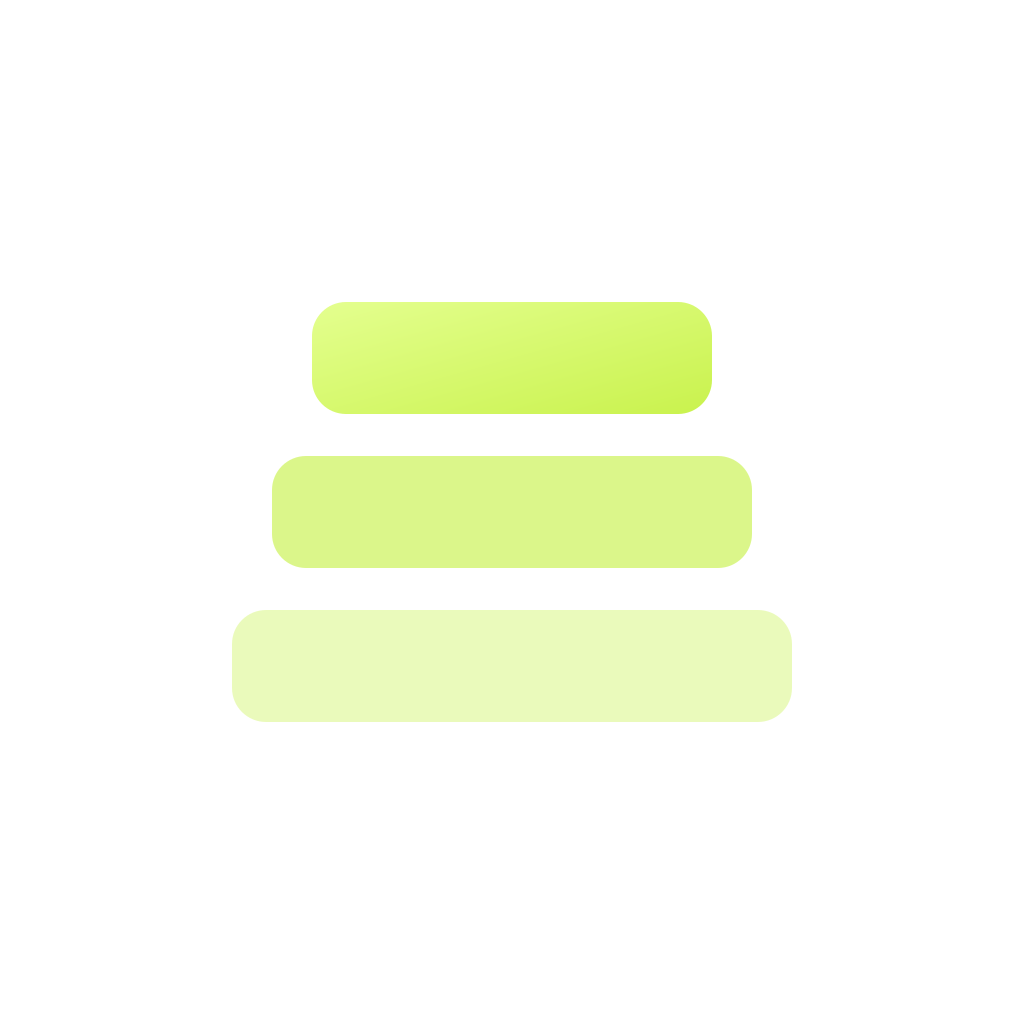
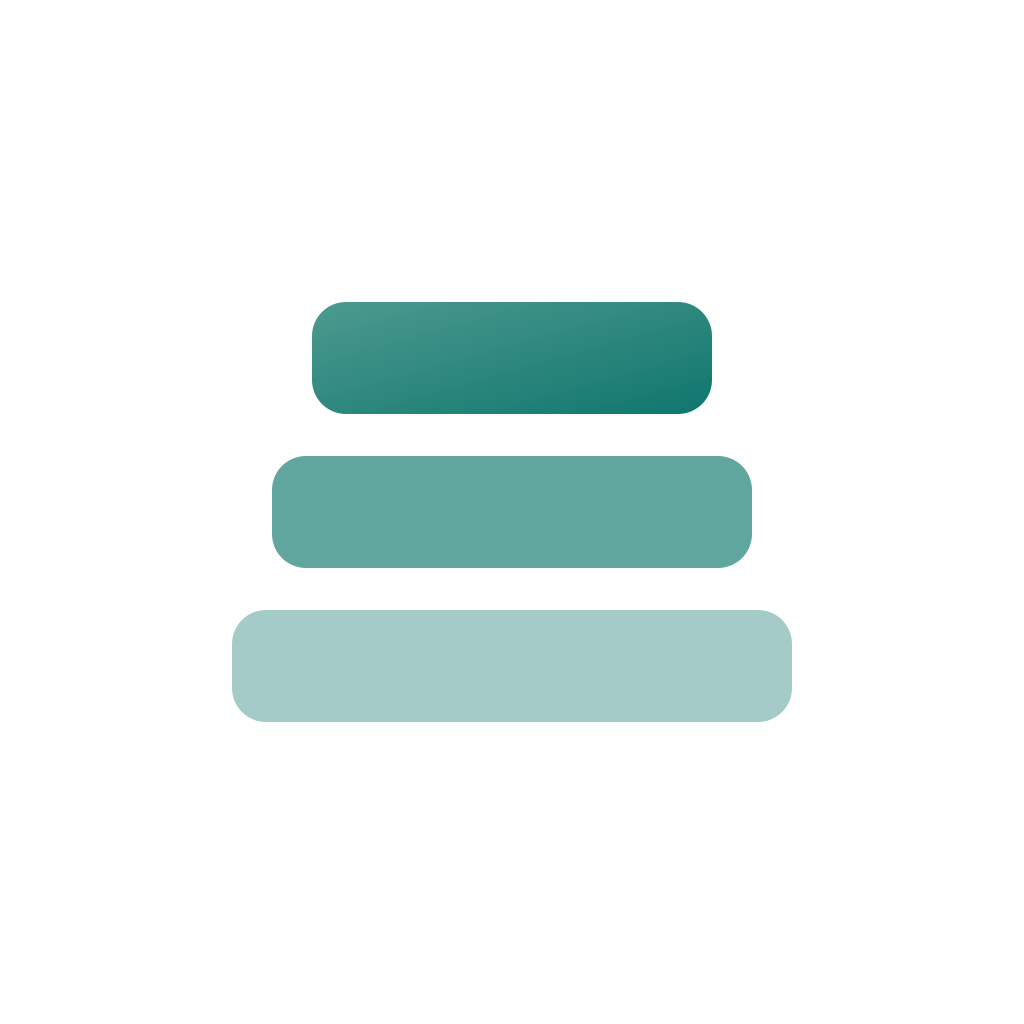
THEA-63: fix stale lime (#C9F24D) brand refs ahead of Clinical Light rollout
logo.svg, generate-icons.mjs, app.json's notification tint, docs/figma-sources.md
and README's Design section still hardcoded or described the pre-redesign
acid-lime accent; theme.ts and CREDITS.md already moved to teal (#0F766E,
THEA-56 direction A). Regenerated all app icons/splash/favicon via npm run
icons so they ship teal, not lime.

Also swapped the logo's gradient top stop (#E4FF8F, a lighter lime tint not
explicitly named in the issue) to a lighter teal (#4D9A8F, matching
theme.ts's evidenceB) so the mark's gradient doesn't blend lime into teal.

README's scheduling-patterns paragraph ('ink and lime') and
docs/figma-sources.md's Fitness UI Kit note were also updated to describe
the current teal accent rather than the old lime one.

Changed region(s): [[0.2188, 0.5938, 0.7812, 0.7188], [0.25, 0.4375, 0.75, 0.5625], [0.2812, 0.2812, 0.7188, 0.4062]]

diff --git a/README.md b/README.md
@@ -120,19 +120,18 @@ The `engine/` and `domain/` layers import nothing from React Native. That is wha
 
 The reference points are instrument readouts and safety data sheets, not wellness apps. This is software that shows you microgram figures and tells you when to stop, so it should read like something calibrated.
 
-**Typeface — three families, split by job.** All bundled locally, all SIL OFL.
+**Typeface — one family, split by weight, plus a dedicated mono.** All bundled locally, all SIL OFL. Replaces the earlier Bricolage Grotesque + IBM Plex Sans split as of THEA-56 direction A ("Clinical Light").
 
 | Role | Family | Why |
 |---|---|---|
-| Display | **Bricolage Grotesque** 800 / 200 | Used at both ends of its weight axis: heavy for headings, hairline for large figures. Enough character to give the app a voice |
-| Reading text | **IBM Plex Sans** 400 / 600 | Humanist, technical lineage, holds up at 13px |
+| Display & reading text | **Inter** 700 / 600 / 400 | One family from the largest metric to the smallest label — 700 for headings, 600 where the old theme used a "medium" weight, 400 for reading text |
 | Every quantity | **IBM Plex Mono** 500 / 600 | Doses, units, syringe counts and section labels. Figures line up in columns and digits do not shift width as a value animates |
 
 Imported per weight, never through a package's barrel entry — those eagerly require every face they ship (Inter's costs ~6 MB) and Metro does not tree-shake them.
 
 Each weight is a separate font family, so **`fontWeight` must never be set alongside `fontFamily`** — doing both makes Android fall back to the system font and makes react-native-web paint a synthetic faux-bold over an already-bold face. Use `fonts.sansMedium` from `src/ui/theme.ts` instead.
 
-**Colour.** Ink (`#0A0A0C`) and bone (`#EDEAE3`) rather than black and white, which is easier over long reading and stops the dark theme reading as a default. One acid-lime accent (`#C9F24D`), deliberately kept clear of the severity scale — colour is load-bearing information here, so the brand colour must never be mistakable for a warning colour. Severity runs rose → orange → amber → sky.
+**Colour.** Ink (`#14171F`), not black, on white and near-white (`#FFFFFF`/`#F6F7F9`), rather than true black and white — easier over long reading and stays short of #000/#FFF harshness while still reading as unambiguously light. One deep-teal accent (`#0F766E`), deliberately kept clear of the severity scale — colour is load-bearing information here, so the brand colour must never be mistakable for a warning colour. Severity runs rose → orange → amber → sky, re-tuned for AA contrast on white.
 
 **Motion.** One orchestrated cascade per screen (`<Reveal index>`), not micro-interactions everywhere. Built on the core `Animated` API rather than Reanimated layout animations, which are the least reliable part of a single-bundle iOS/Android/web story. Two failure modes are guarded: `useNativeDriver` is platform-gated because it silently no-ops on web, and a hidden browser tab (where `requestAnimationFrame` never fires) resolves straight to the final state — an animation that gates opacity must never be able to strand content invisible.
 
@@ -146,7 +145,7 @@ Charts carry their **denominator**. A `track` prop draws the reference quantity 
 
 Strength trends are **small multiples** — one sparkline per lift — rather than one multi-series chart. That was a deliberate reversal: a four-hue categorical palette validated against the dark surface failed on two pairs (orange↔lime at ΔE 0.8 for deuteranopia, violet↔blue below the normal-vision floor). Small multiples need no categorical palette at all, so there is no colourblind collision to design around, and each lift stays directly labelled — which also reads far better at 375px wide.
 
-**Scheduling patterns.** The dashboard's week selector, the time-gutter timeline, the inline metadata chips and the compact confirm/dismiss actions are adapted from the appointment screens of the [Medical Health Mobile App / Dermatology UI Kit](https://www.figma.com/community) (Figma Community), pulled in over the Figma MCP. The layout ideas transferred; the palette did not — that kit is blue-on-white and this app is ink and lime, so every piece is rebuilt on our own tokens in `src/ui/schedule.tsx`.
+**Scheduling patterns.** The dashboard's week selector, the time-gutter timeline, the inline metadata chips and the compact confirm/dismiss actions are adapted from the appointment screens of the [Medical Health Mobile App / Dermatology UI Kit](https://www.figma.com/community) (Figma Community), pulled in over the Figma MCP. The layout ideas transferred; the palette did not — that kit is blue-on-white and this app is ink and teal, so every piece is rebuilt on our own tokens in `src/ui/schedule.tsx`.
 
 The one that changed the app most is the week strip. The dashboard previously showed only today, which made it impossible to see a dose coming or check what was missed yesterday without leaving the screen — and it hid the fact that a 5×/week compound simply is not there at the weekend.
 

diff --git a/docs/figma-sources.md b/docs/figma-sources.md
@@ -45,8 +45,10 @@ Rendered whole it is unreadable — screenshot individual screens instead. Get
 its children with `get_metadata` on `3032:2305` first, then target the progress
 tracking and workout log screens.
 
-Dark themed, purple with an acid-lime accent very close to this app's own
-`#C9F24D`.
+Dark themed, purple with an acid-lime accent — close to this app's
+pre-redesign lime accent (`#C9F24D`). The current app accent is teal
+(`#0F766E`, Clinical Light, THEA-56), so this kit no longer reads as an
+accent-colour match, only a layout/IA reference.
 
 ---
 
